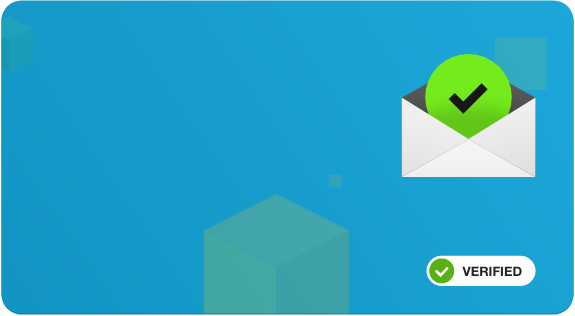
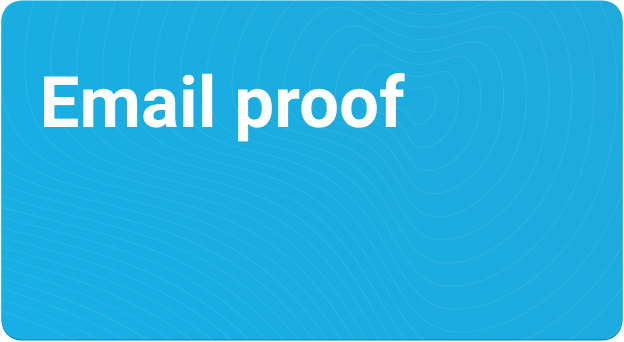
change email design

diff --git a/lib/home/tab_bar/credentials/widgets/credential_widget/email_pass_widget.dart b/lib/home/tab_bar/credentials/widgets/credential_widget/email_pass_widget.dart
@@ -66,16 +66,16 @@ class EmailPassRecto extends Recto {
         child: CustomMultiChildLayout(
           delegate: EmailPassRectoDelegate(position: Offset.zero),
           children: [
-            LayoutId(
-              id: 'name',
-              child: FractionallySizedBox(
-                widthFactor: 0.5,
-                child: DisplayNameCard(
-                  credentialModel: credentialModel,
-                  style: Theme.of(context).textTheme.credentialTitleCard,
-                ),
-              ),
-            ),
+            // LayoutId(
+            //   id: 'name',
+            //   child: FractionallySizedBox(
+            //     widthFactor: 0.5,
+            //     child: DisplayNameCard(
+            //       credentialModel: credentialModel,
+            //       style: Theme.of(context).textTheme.credentialTitleCard,
+            //     ),
+            //   ),
+            // ),
             LayoutId(
               id: 'description',
               child: FractionallySizedBox(
@@ -135,7 +135,7 @@ class EmailPassRectoDelegate extends MultiChildLayoutDelegate {
       layoutChild('description', BoxConstraints.loose(size));
       positionChild(
         'description',
-        Offset(size.width * 0.06, size.height * 0.33),
+        Offset(size.width * 0.06, size.height * 0.43),
       );
     }
 
@@ -143,7 +143,7 @@ class EmailPassRectoDelegate extends MultiChildLayoutDelegate {
       layoutChild('email', BoxConstraints.loose(size));
       positionChild(
         'email',
-        Offset(size.width * 0.06, size.height * 0.65),
+        Offset(size.width * 0.2, size.height * 0.8),
       );
     }
 

diff --git a/lib/app/shared/constants/image_strings.dart b/lib/app/shared/constants/image_strings.dart
@@ -10,8 +10,7 @@ class ImageStrings {
       '$imagePath/carte-attestation-employeur-recto.png';
   static const String employmentCertificateBack =
       '$imagePath/carte-attestation-employeur-verso.png';
-  static const String emailPassFront = '$imagePath/email_pass_verso.png';
-  static const String emailPassBack = '$imagePath/email_pass_verso.png';
+  static const String emailPassFront = '$imagePath/email_pass_recto.png';
   static const String learningAchievementFront =
       '$imagePath/carte-diplome-recto.png';
   static const String learningAchievementBack =
